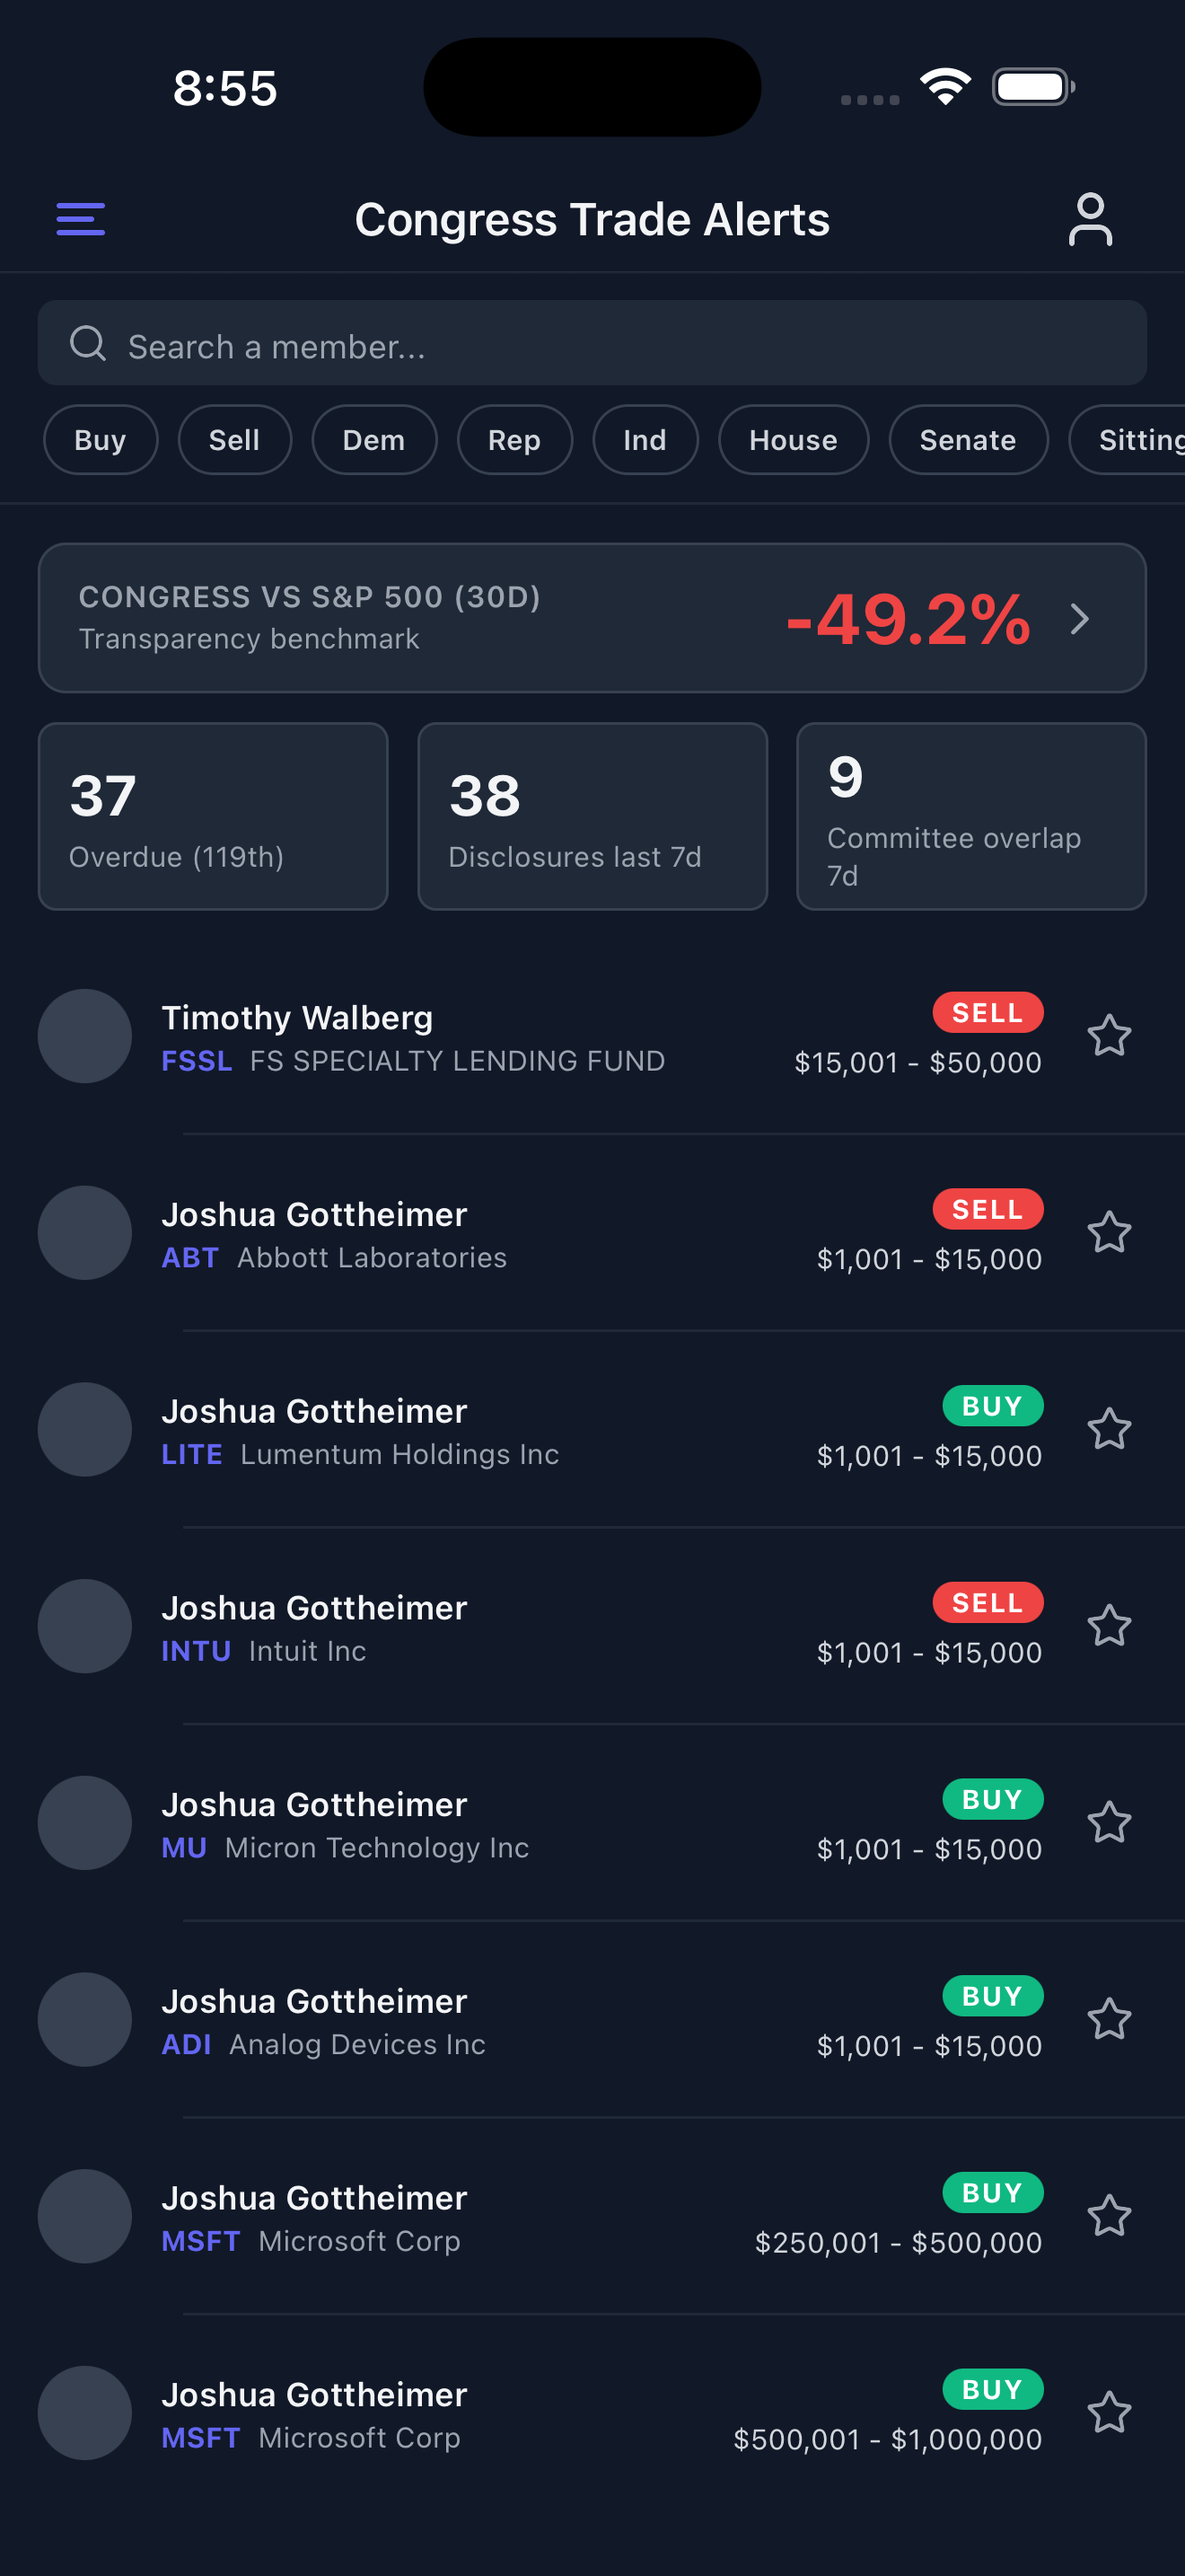
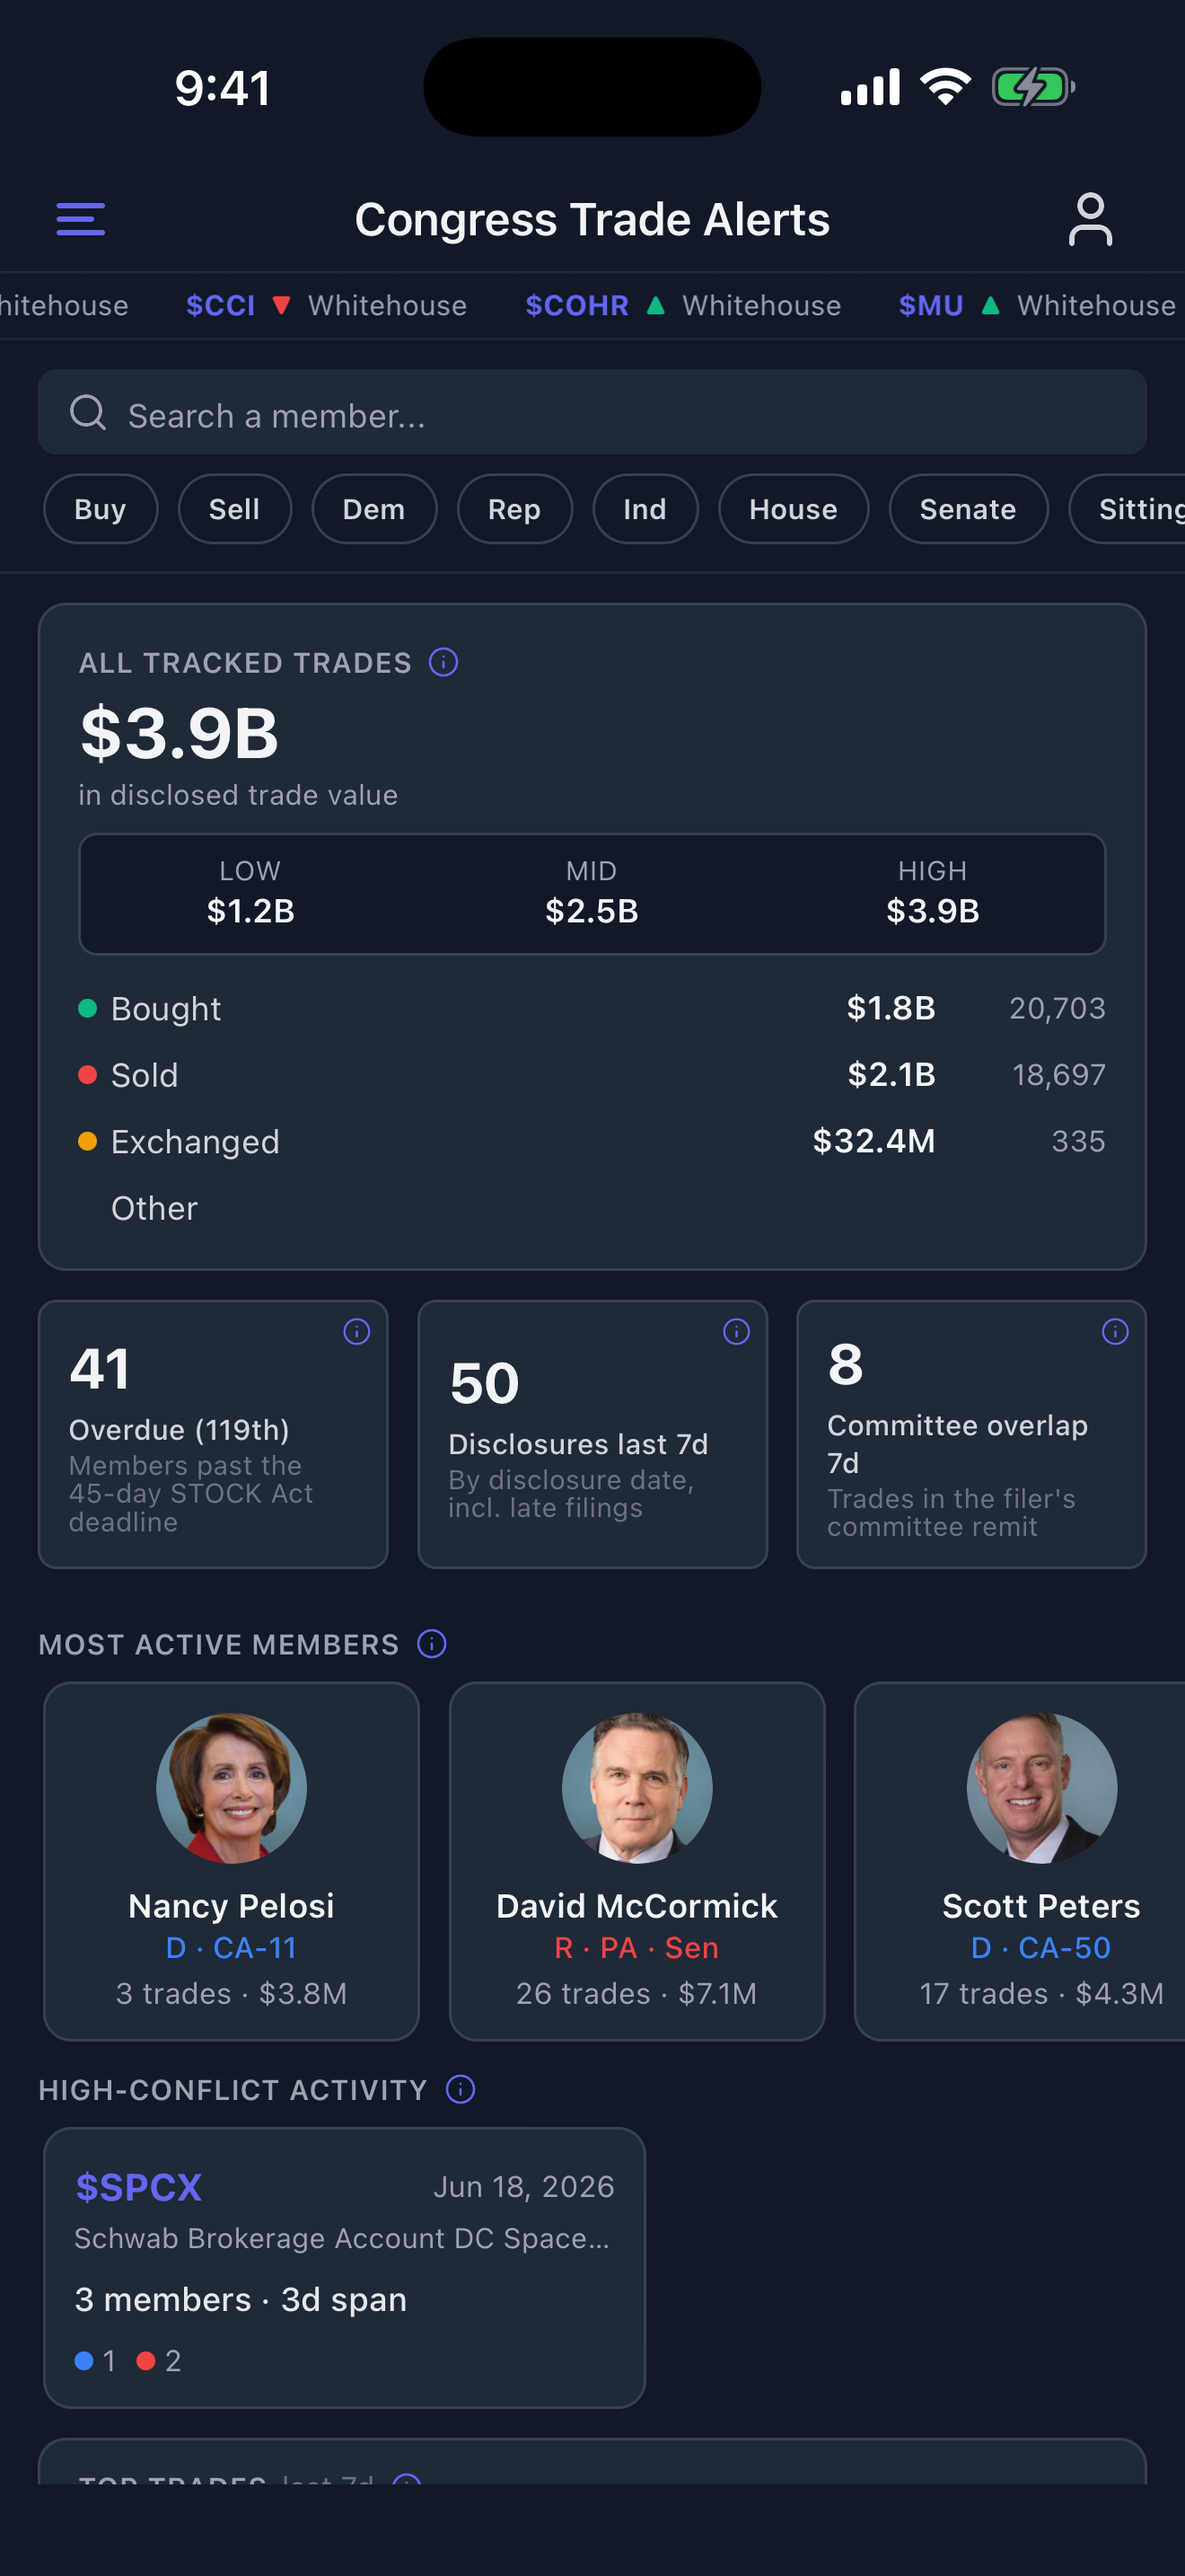
chore(store): re-capture iOS screenshots on the gated build (7-shot set)
Re-captures 01-feed, 02-trade-detail, 05-ticker on a Release simulator
build with the shipping posture (RETURNS_DISPLAY=false,
SHOW_UPGRADE_CTA=false) -- the 2.3.3 metadata mismatch is gone: no
Congress-vs-S&P benchmark card, no at-trade/current price snapshot, no
ticker price hero. Adds the two new shots from screenshot-spec.md
section 3: 06-settings-push (opt-in push toggle, no account, no
upgrade card) and 07-methodology. 03/04 reused as-is. All 1320x2868
(iPhone 17 Pro Max, 9:41 status bar). Refreshes screenshots-brief.md
and marks the re-capture done in screenshot-spec.md.

diff --git a/store/screenshots-brief.md b/store/screenshots-brief.md
@@ -1,22 +1,28 @@
 # Screenshots brief
 
 Capture sequence for App Store Connect + Google Play Console listings.
-Updated 2026-06-09 after Mac CC shipped 5x 6.9" iOS screenshots
-(commit a9d573a).
+Updated 2026-07-11 after the RETURNS_DISPLAY-gated re-capture (7-shot
+set, Release build, production flags). Authoritative spec:
+`store/app-store/screenshot-spec.md`.
 
 ## Current iOS set (shipped)
 
-Device: **6.9" iPhone 17 Pro Max (1320 x 2868 portrait)**. Apple
-auto-scales this master to smaller iOS sizes. 5 screenshots committed
-to `store/app-store/screenshots/`.
+Device: **6.9" iPhone 17 Pro Max simulator (1320 x 2868 portrait)**.
+Apple auto-scales this master to smaller iOS sizes. 7 screenshots
+committed to `store/app-store/screenshots/`. 01/02/05 re-captured and
+06/07 added 2026-07-11 on the shipping posture (RETURNS_DISPLAY=false,
+SHOW_UPGRADE_CTA=false -- no price-derived UI, no purchase surface);
+03/04 reused from the 2026-06-09 set (commit a9d573a).
 
 | # | File | Surface |
 |---|---|---|
-| 1 | 01-feed.png | Trade feed |
-| 2 | 02-trade-detail.png | Trade detail |
+| 1 | 01-feed.png | Trade feed (stat tiles, no benchmark card) |
+| 2 | 02-trade-detail.png | Trade detail (amount range, overlap card, timeline; no price snapshot) |
 | 3 | 03-daily-dive.png | Daily Dive |
 | 4 | 04-committee.png | Committee page |
-| 5 | 05-ticker.png | Ticker page |
+| 5 | 05-ticker.png | Ticker page (trade list, no price hero) |
+| 6 | 06-settings-push.png | Settings: push opt-in toggle, no account, no upgrade card |
+| 7 | 07-methodology.png | Methodology: data sources + lag stats |
 
 ## Android (not yet updated)
 
@@ -48,6 +54,8 @@ store/app-store/screenshots/
   03-daily-dive.png
   04-committee.png
   05-ticker.png
+  06-settings-push.png
+  07-methodology.png
 
 store/google-play/screenshots/
   (re-capture pending -- currently stale 8-shot set)

diff --git a/store/app-store/screenshot-spec.md b/store/app-store/screenshot-spec.md
@@ -6,6 +6,15 @@ screenshot-specifications/, fetched 2026-07-11). Supersedes the screenshot
 notes in store/mac-cc-asc-prompt.md and store/screenshots-brief.md where
 they conflict.
 
+RE-CAPTURE DONE 2026-07-11 (Mac CC): 01/02/05 re-captured and
+06-settings-push/07-methodology added per section 3, from a Release
+simulator build of feat/web-parity @ 589e9bd (RETURNS_DISPLAY=false,
+SHOW_UPGRADE_CTA=false), iPhone 17 Pro Max, status bar per section 4.
+The section-2 verdicts below describe the superseded 2026-06-09 set and
+are kept for the audit trail. Shots 6-7 from the section-3 list are
+committed; ASC upload still pending (blocked on the app record / ASC
+API key).
+
 ---
 
 ## 1. ASC requirements (verified 2026-07-11, primary source)
